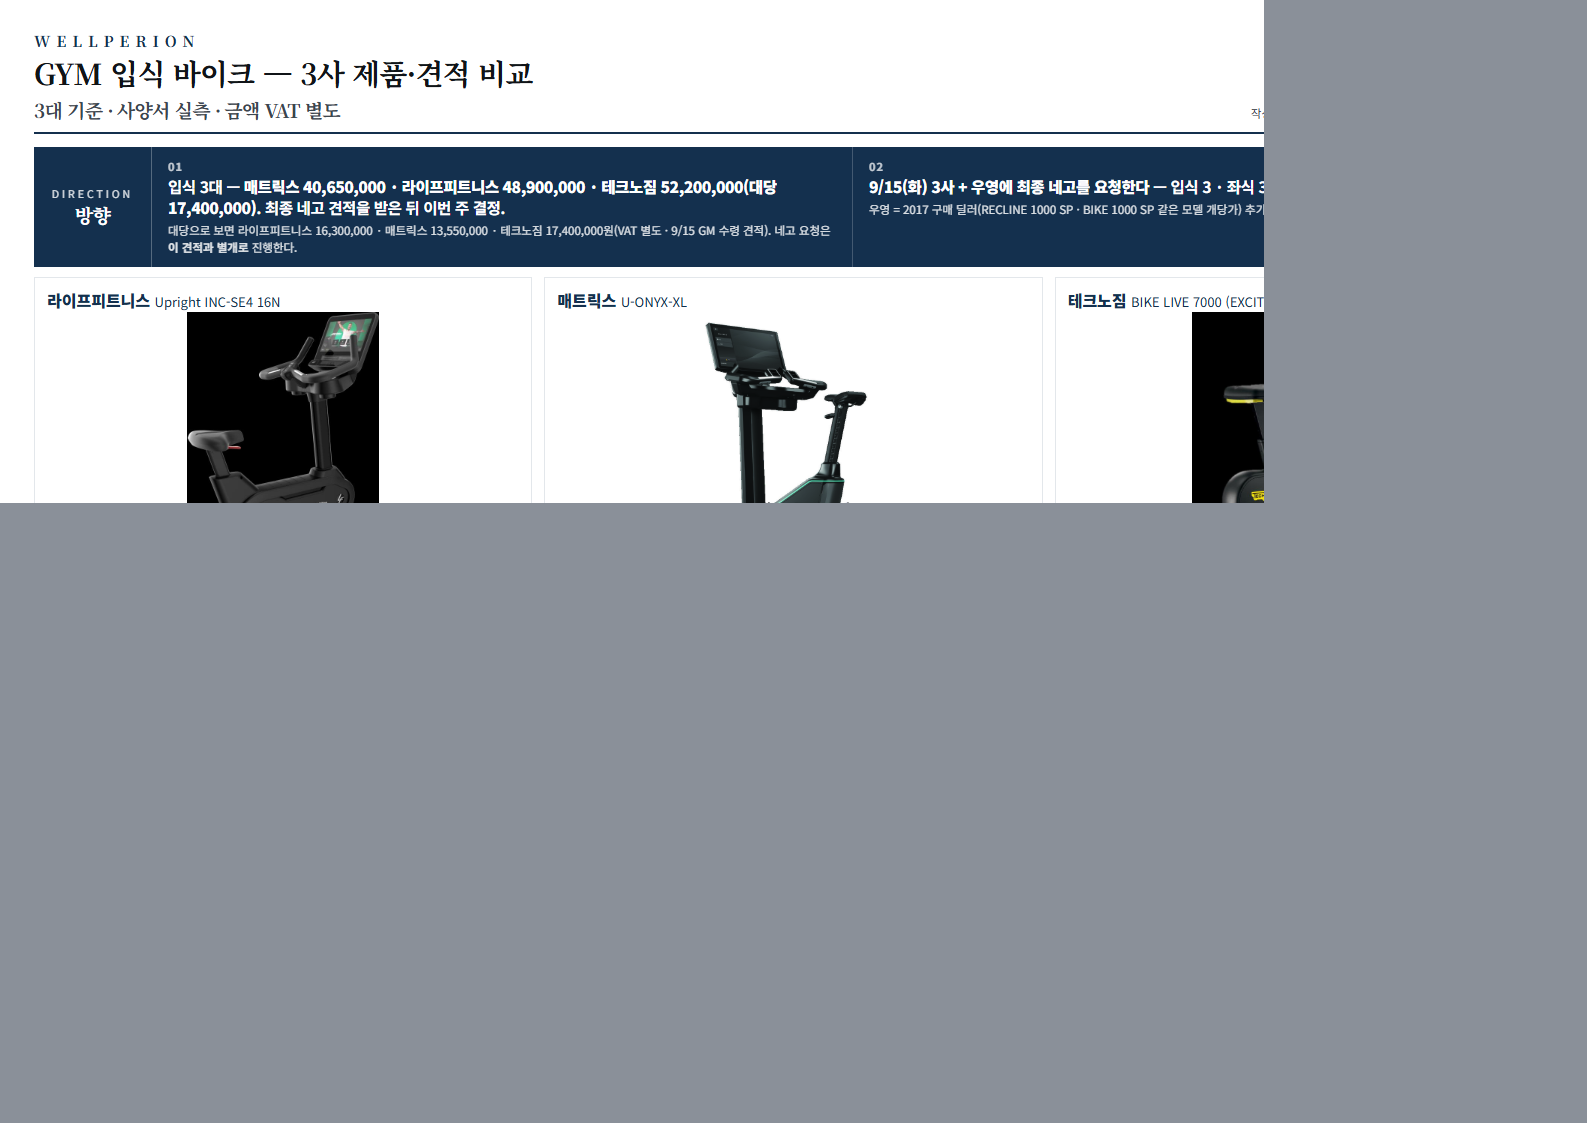
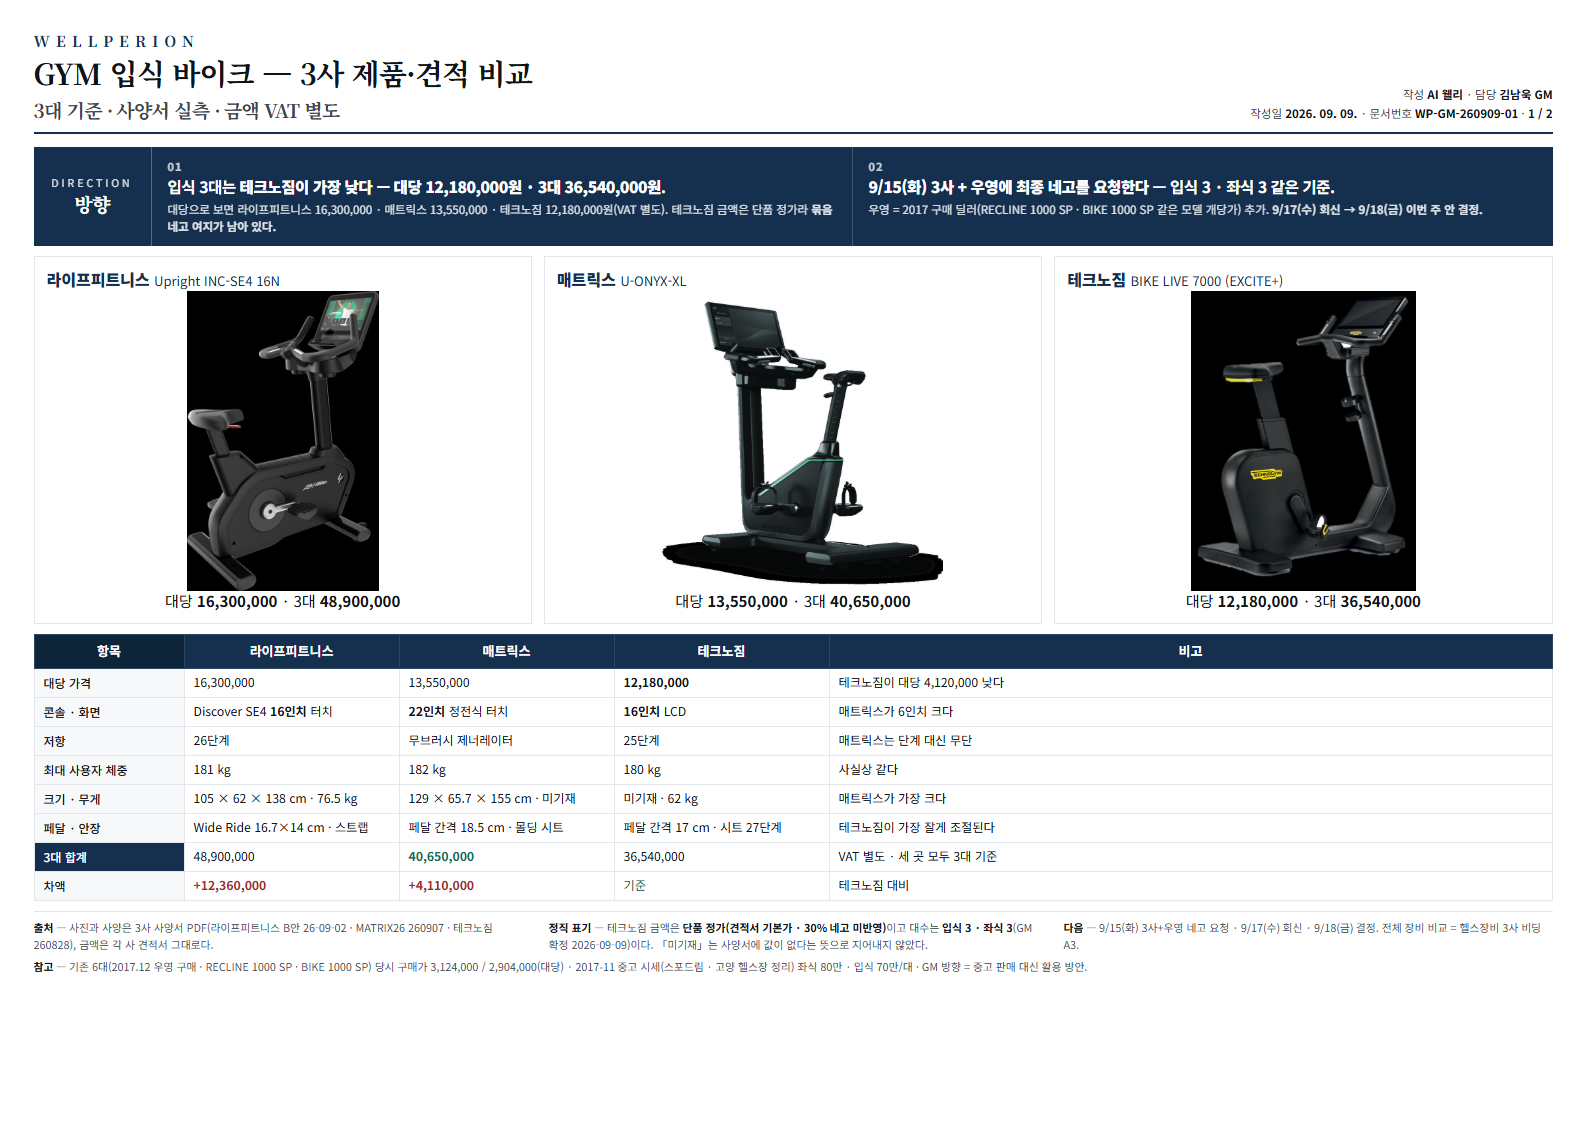
[웰리] 바이크 A3 테크노짐 금액 기본가로 복원 — 30% 네고 미반영 원복 (GM 09-15 지시)
Claude-Session: https://claude.ai/code/session_014iuE731rFTpGCrweMJ3EYo

diff --git a/3. 웰페리온 가이드/coo/chairman/260909_GYM바이크_3사비교_A3.html b/3. 웰페리온 가이드/coo/chairman/260909_GYM바이크_3사비교_A3.html
@@ -133,7 +133,7 @@
   <div class="ask">
     <div class="lb"><span>DIRECTION</span><strong>방향</strong></div>
     <div class="items">
-      <div class="it"><div class="n">01</div><div><div class="q">입식 3대 — <b>매트릭스 40,650,000 · 라이프피트니스 48,900,000 · 테크노짐 52,200,000(대당 17,400,000)</b>. 최종 네고 견적을 받은 뒤 이번 주 결정.</div><div class="d">대당으로 보면 라이프피트니스 16,300,000 · 매트릭스 13,550,000 · 테크노짐 17,400,000원(VAT 별도 · 9/15 GM 수령 견적). 네고 요청은 <b>이 견적과 별개로</b> 진행한다.</div></div></div>
+      <div class="it"><div class="n">01</div><div><div class="q">입식 3대는 <b>테크노짐이 가장 낮다 — 대당 12,180,000원 · 3대 36,540,000원</b>.</div><div class="d">대당으로 보면 라이프피트니스 16,300,000 · 매트릭스 13,550,000 · 테크노짐 12,180,000원(VAT 별도). 테크노짐 금액은 단품 정가라 <b>묶음 네고 여지가 남아 있다.</b></div></div></div>
       <div class="it"><div class="n">02</div><div><div class="q"><b>9/15(화) 3사 + 우영에 최종 네고를 요청한다</b> — 입식 3 · 좌식 3 같은 기준.</div><div class="d">우영 = 2017 구매 딜러(RECLINE 1000 SP · BIKE 1000 SP 같은 모델 개당가) 추가. <b>9/17(수) 회신 → 9/18(금) 이번 주 안 결정.</b></div></div></div>
     </div>
   </div>
@@ -158,7 +158,7 @@
         <div style="flex:1; min-height:0; display:flex; align-items:center; justify-content:center; margin:8px 0">
           <img src="assets/bike/techno_p3_7.png" alt="테크노짐" style="max-width:100%; max-height:300px; object-fit:contain">
         </div>
-        <div style="text-align:center; font-size:15px">대당 <b>17,400,000</b> · 3대 <b>52,200,000</b></div>
+        <div style="text-align:center; font-size:15px">대당 <b>12,180,000</b> · 3대 <b>36,540,000</b></div>
       </div>
   </div>
 
@@ -166,21 +166,21 @@
     <table>
       <thead><tr><th class="k" style="width:150px">항목</th><th style="width:215px">라이프피트니스</th><th style="width:215px">매트릭스</th><th style="width:215px">테크노짐</th><th>비고</th></tr></thead>
       <tbody>
-        <tr><td class="k">대당 가격</td><td class="c">16,300,000</td><td class="c">13,550,000</td><td class="c"><b>17,400,000</b></td><td>매트릭스가 가장 낮다 · 테크노짐은 라이프피트니스보다 대당 1,100,000 높다</td></tr>
+        <tr><td class="k">대당 가격</td><td class="c">16,300,000</td><td class="c">13,550,000</td><td class="c"><b>12,180,000</b></td><td>테크노짐이 대당 4,120,000 낮다</td></tr>
           <tr><td class="k">콘솔 · 화면</td><td class="c">Discover SE4 <b>16인치</b> 터치</td><td class="c"><b>22인치</b> 정전식 터치</td><td class="c"><b>16인치</b> LCD</td><td>매트릭스가 6인치 크다</td></tr>
           <tr><td class="k">저항</td><td class="c">26단계</td><td class="c">무브러시 제너레이터</td><td class="c">25단계</td><td>매트릭스는 단계 대신 무단</td></tr>
           <tr><td class="k">최대 사용자 체중</td><td class="c">181 kg</td><td class="c">182 kg</td><td class="c">180 kg</td><td>사실상 같다</td></tr>
           <tr><td class="k">크기 · 무게</td><td class="c">105 × 62 × 138 cm · 76.5 kg</td><td class="c">129 × 65.7 × 155 cm · 미기재</td><td class="c">미기재 · 62 kg</td><td>매트릭스가 가장 크다</td></tr>
           <tr><td class="k">페달 · 안장</td><td class="c">Wide Ride 16.7×14 cm · 스트랩</td><td class="c">페달 간격 18.5 cm · 몰딩 시트</td><td class="c">페달 간격 17 cm · 시트 27단계</td><td>테크노짐이 가장 잘게 조절된다</td></tr>
-        <tr class="total"><td class="k" style="background:var(--navy);color:#fff">3대 합계</td><td class="n">48,900,000</td><td class="n good">40,650,000</td><td class="n">52,200,000</td><td>VAT 별도 · 세 곳 모두 3대 기준</td></tr>
-        <tr><td class="k">차액</td><td class="c">−3,300,000</td><td class="c" style="color:#146B4F">−11,550,000</td><td class="c">기준</td><td>테크노짐 대비 (− = 테크노짐보다 낮음)</td></tr>
+        <tr class="total"><td class="k" style="background:var(--navy);color:#fff">3대 합계</td><td class="n">48,900,000</td><td class="n good">40,650,000</td><td class="n">36,540,000</td><td>VAT 별도 · 세 곳 모두 3대 기준</td></tr>
+        <tr><td class="k">차액</td><td class="c bad">+12,360,000</td><td class="c bad">+4,110,000</td><td class="c" style="color:#146B4F">기준</td><td>테크노짐 대비</td></tr>
       </tbody>
     </table>
   </div>
 
   <div class="foot">
     <div><b>출처</b> — 사진과 사양은 3사 사양서 PDF(라이프피트니스 B안 26-09-02 · MATRIX26 260907 · 테크노짐 260828), 금액은 각 사 견적서 그대로다.</div>
-    <div><b>정직 표기</b> — 테크노짐 = <b>9/15 GM 수령 견적</b>(할인 적용)이고 대수는 <b>입식 3 · 좌식 3</b>(GM 확정 2026-09-09)이다. 「미기재」는 사양서에 값이 없다는 뜻으로 지어내지 않았다.</div>
+    <div><b>정직 표기</b> — 테크노짐 금액은 <b>단품 정가(견적서 기본가 · 30% 네고 미반영)</b>이고 대수는 <b>입식 3 · 좌식 3</b>(GM 확정 2026-09-09)이다. 「미기재」는 사양서에 값이 없다는 뜻으로 지어내지 않았다.</div>
     <div><b>다음</b> — 9/15(화) 3사+우영 네고 요청 · 9/17(수) 회신 · 9/18(금) 결정. 전체 장비 비교 = 헬스장비 3사 비딩 A3.</div>
   </div>
   <div style="margin-top:5px; font-size:10.8px; line-height:1.5; color:#48525B"><b style="color:var(--ink)">참고</b> — 기존 6대(2017.12 우영 구매 · RECLINE 1000 SP · BIKE 1000 SP) 당시 구매가 3,124,000 / 2,904,000(대당) · 2017-11 중고 시세(스포드림 · 고양 헬스장 정리) 좌식 80만 · 입식 70만/대 · GM 방향 = 중고 판매 대신 활용 방안.</div>
@@ -201,7 +201,7 @@
   <div class="ask">
     <div class="lb"><span>DIRECTION</span><strong>방향</strong></div>
     <div class="items">
-      <div class="it"><div class="n">01</div><div><div class="q">좌식 3대 — <b>매트릭스 44,430,000 · 라이프피트니스 52,200,000 · 테크노짐 54,000,000(대당 18,000,000)</b>. 최종 네고 견적을 받은 뒤 이번 주 결정.</div><div class="d">대당으로 보면 라이프피트니스 17,400,000 · 매트릭스 14,810,000 · 테크노짐 18,000,000원(VAT 별도 · 9/15 GM 수령 견적). 최대 사용자 체중은 테크노짐이 <b>220 kg</b> 로 40 kg 높고 등받이 각도까지 조절된다.</div></div></div>
+      <div class="it"><div class="n">01</div><div><div class="q">좌식 3대도 <b>테크노짐이 가장 낮다 — 대당 12,600,000원 · 3대 37,800,000원</b>.</div><div class="d">대당으로 보면 라이프피트니스 17,400,000 · 매트릭스 14,810,000 · 테크노짐 12,600,000원(VAT 별도). 최대 사용자 체중은 테크노짐이 <b>220 kg</b> 로 40 kg 높고 등받이 각도까지 조절된다.</div></div></div>
       <div class="it"><div class="n">02</div><div><div class="q"><b>9/15(화) 3사 + 우영에 최종 네고를 요청한다</b> — 입식 3 · 좌식 3 같은 기준.</div><div class="d">우영 = 2017 구매 딜러(RECLINE 1000 SP · BIKE 1000 SP 같은 모델 개당가) 추가. <b>9/17(수) 회신 → 9/18(금) 이번 주 안 결정.</b></div></div></div>
     </div>
   </div>
@@ -226,7 +226,7 @@
         <div style="flex:1; min-height:0; display:flex; align-items:center; justify-content:center; margin:8px 0">
           <img src="assets/bike/techno_p4_7.png" alt="테크노짐" style="max-width:100%; max-height:300px; object-fit:contain">
         </div>
-        <div style="text-align:center; font-size:15px">대당 <b>18,000,000</b> · 3대 <b>54,000,000</b></div>
+        <div style="text-align:center; font-size:15px">대당 <b>12,600,000</b> · 3대 <b>37,800,000</b></div>
       </div>
   </div>
 
@@ -234,21 +234,21 @@
     <table>
       <thead><tr><th class="k" style="width:150px">항목</th><th style="width:215px">라이프피트니스</th><th style="width:215px">매트릭스</th><th style="width:215px">테크노짐</th><th>비고</th></tr></thead>
       <tbody>
-        <tr><td class="k">대당 가격</td><td class="c">17,400,000</td><td class="c">14,810,000</td><td class="c"><b>18,000,000</b></td><td>매트릭스가 가장 낮다 · 테크노짐은 라이프피트니스보다 대당 600,000 높다</td></tr>
+        <tr><td class="k">대당 가격</td><td class="c">17,400,000</td><td class="c">14,810,000</td><td class="c"><b>12,600,000</b></td><td>테크노짐이 대당 4,800,000 낮다</td></tr>
           <tr><td class="k">콘솔 · 화면</td><td class="c">Discover SE4 <b>16인치</b> 터치</td><td class="c"><b>22인치</b> 정전식 터치</td><td class="c"><b>16인치</b> LCD</td><td>매트릭스가 6인치 크다</td></tr>
           <tr><td class="k">저항</td><td class="c">26단계</td><td class="c">무브러시 제너레이터</td><td class="c">25단계</td><td>매트릭스는 단계 대신 무단</td></tr>
           <tr><td class="k">최대 사용자 체중</td><td class="c">181 kg</td><td class="c">182 kg</td><td class="c"><b>220 kg</b></td><td>테크노짐이 40 kg 높다</td></tr>
           <tr><td class="k">크기 · 무게</td><td class="c">179 × 66 × 131 cm · 97.5 kg</td><td class="c">172.2 × 70.6 × 148.1 cm · 미기재</td><td class="c">길이 1,640 mm · 80 kg</td><td>라이프피트니스가 가장 길다</td></tr>
           <tr><td class="k">시트 · 등받이</td><td class="c">미기재</td><td class="c">앞뒤 조절 · 등받이 젖힘 · 측면 핸들바</td><td class="c">시트 27단계 · 등받이 4단계</td><td>테크노짐이 가장 잘게 조절된다</td></tr>
-        <tr class="total"><td class="k" style="background:var(--navy);color:#fff">3대 합계</td><td class="n">52,200,000</td><td class="n good">44,430,000</td><td class="n">54,000,000</td><td>VAT 별도 · 세 곳 모두 3대 기준</td></tr>
-        <tr><td class="k">차액</td><td class="c">−1,800,000</td><td class="c" style="color:#146B4F">−9,570,000</td><td class="c">기준</td><td>테크노짐 대비 (− = 테크노짐보다 낮음)</td></tr>
+        <tr class="total"><td class="k" style="background:var(--navy);color:#fff">3대 합계</td><td class="n">52,200,000</td><td class="n good">44,430,000</td><td class="n">37,800,000</td><td>VAT 별도 · 세 곳 모두 3대 기준</td></tr>
+        <tr><td class="k">차액</td><td class="c bad">+14,400,000</td><td class="c bad">+6,630,000</td><td class="c" style="color:#146B4F">기준</td><td>테크노짐 대비</td></tr>
       </tbody>
     </table>
   </div>
 
   <div class="foot">
     <div><b>출처</b> — 사진과 사양은 3사 사양서 PDF(라이프피트니스 B안 26-09-02 · MATRIX26 260907 · 테크노짐 260828), 금액은 각 사 견적서 그대로다.</div>
-    <div><b>정직 표기</b> — 테크노짐 = <b>9/15 GM 수령 견적</b>(할인 적용)이고 대수는 <b>입식 3 · 좌식 3</b>(GM 확정 2026-09-09)이다. 「미기재」는 사양서에 값이 없다는 뜻으로 지어내지 않았다.</div>
+    <div><b>정직 표기</b> — 테크노짐 금액은 <b>단품 정가(견적서 기본가 · 30% 네고 미반영)</b>이고 대수는 <b>입식 3 · 좌식 3</b>(GM 확정 2026-09-09)이다. 「미기재」는 사양서에 값이 없다는 뜻으로 지어내지 않았다.</div>
     <div><b>다음</b> — 9/15(화) 3사+우영 네고 요청 · 9/17(수) 회신 · 9/18(금) 결정. 전체 장비 비교 = 헬스장비 3사 비딩 A3.</div>
   </div>
 </div>
